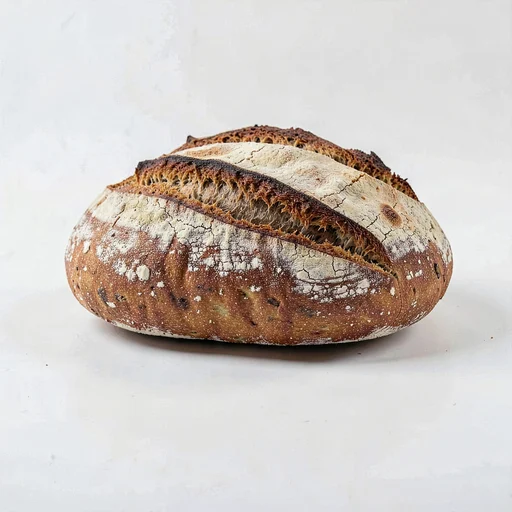
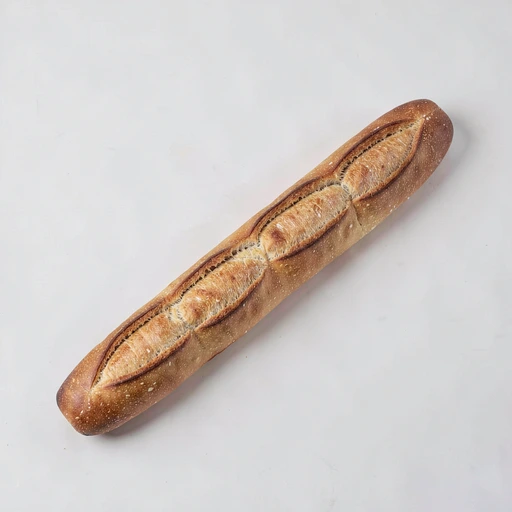
fix: replace termo/dedal/factura and reshoot pan in día 23
User feedback: termo, dedal, and factura should be swapped for other
objects, and pan should look more like an actual loaf (baguette-style)
instead of the generic round bread it was.

- factura -> cuchara (spoon): plain steel spoon reads unambiguously,
  vs. a single pastry photo defaulting to "medialuna" just as easily
  as "factura".
- termo -> perro (dog): fully unambiguous, and avoids termo's risk of
  reading as a generic "botella".
- dedal -> dado (die): a small silver thimble is easy to mistake for
  a tiny cup at a glance; a six-sided die with visible pips has no
  competing reading. (dedal had already been reshot once this session
  and was still flagged, so swapping the object entirely instead of
  trying a third illustration.)
- pan: same word, regenerated as a scored baguette loaf instead of a
  round boule, per the user's explicit ask for something "más
  representativo".

Same risk as the bombilla/libro swap: this game derives every answer
letter-by-letter from the object's exact name, so replacing an object
can silently change puzzle answers. Worked out replacement rules for
all 13 affected puzzle-steps (6 factura, 3 termo, 4 dedal — some
puzzles use two of these three at once) so every target word stays
exactly the same, verified with a standalone script before touching
the component. Confirmed live afterward: played through rounds using
each new object and the completion recap matched exactly — "A = última
[…]

diff --git a/src/pages/desafio/games/UnaLetraDeCadaUno.tsx b/src/pages/desafio/games/UnaLetraDeCadaUno.tsx
@@ -50,8 +50,8 @@ const OBJETOS = {
   bicicleta: 'BICICLETA',
   bufanda: 'BUFANDA',
   cuaderno: 'CUADERNO',
-  dedal: 'DEDAL',
-  factura: 'FACTURA',
+  cuchara: 'CUCHARA',
+  dado: 'DADO',
   flamenco: 'FLAMENCO',
   galleta: 'GALLETA',
   guitarra: 'GUITARRA',
@@ -63,8 +63,8 @@ const OBJETOS = {
   paraguas: 'PARAGUAS',
   pato: 'PATO',
   pelota: 'PELOTA',
+  perro: 'PERRO',
   rana: 'RANA',
-  termo: 'TERMO',
   tijera: 'TIJERA',
   tortuga: 'TORTUGA',
   vaso: 'VASO',
@@ -155,11 +155,11 @@ const LEVELS: Level[] = [
     name: 'Nivel 1',
     hint: 'Acá solo hay que mirar la primera o la última letra de cada palabra.',
     puzzles: [
-      [{ obj: 'mariposa', regla: 'primera' }, { obj: 'mate', regla: 'ultima' }, { obj: 'paraguas', regla: 'ultima' }, { obj: 'factura', regla: 'ultima' }], // MESA
+      [{ obj: 'mariposa', regla: 'primera' }, { obj: 'mate', regla: 'ultima' }, { obj: 'paraguas', regla: 'ultima' }, { obj: 'cuchara', regla: 'ultima' }], // MESA
       [{ obj: 'paraguas', regla: 'ultima' }, { obj: 'vaso', regla: 'ultima' }, { obj: 'pato', regla: 'primera' }, { obj: 'bufanda', regla: 'ultima' }], // SOPA
       [{ obj: 'mariposa', regla: 'primera' }, { obj: 'pelota', regla: 'ultima' }, { obj: 'pan', regla: 'ultima' }, { obj: 'cuaderno', regla: 'ultima' }], // MANO
       [{ obj: 'rana', regla: 'primera' }, { obj: 'pelota', regla: 'ultima' }, { obj: 'mariposa', regla: 'primera' }, { obj: 'cuaderno', regla: 'ultima' }], // RAMO
-      [{ obj: 'pan', regla: 'primera' }, { obj: 'mate', regla: 'ultima' }, { obj: 'rana', regla: 'primera' }, { obj: 'factura', regla: 'ultima' }], // PERA
+      [{ obj: 'pan', regla: 'primera' }, { obj: 'mate', regla: 'ultima' }, { obj: 'rana', regla: 'primera' }, { obj: 'cuchara', regla: 'ultima' }], // PERA
     ],
   },
   {
@@ -168,10 +168,10 @@ const LEVELS: Level[] = [
     hint: 'Ahora también hay que contar letras, y aparecen las vocales.',
     puzzles: [
       [{ obj: 'paraguas', regla: 'primera' }, { obj: 'flamenco', regla: 'segunda' }, { obj: 'rana', regla: 'primeraVocal' }, { obj: 'mate', regla: 'tercera' }, { obj: 'cuaderno', regla: 'ultima' }], // PLATO
-      [{ obj: 'factura', regla: 'tercera' }, { obj: 'mariposa', regla: 'segunda' }, { obj: 'rana', regla: 'primera' }, { obj: 'mate', regla: 'tercera' }, { obj: 'maceta', regla: 'ultima' }], // CARTA
+      [{ obj: 'cuchara', regla: 'tercera' }, { obj: 'mariposa', regla: 'segunda' }, { obj: 'rana', regla: 'primera' }, { obj: 'mate', regla: 'tercera' }, { obj: 'maceta', regla: 'ultima' }], // CARTA
       [{ obj: 'pan', regla: 'tercera' }, { obj: 'bicicleta', regla: 'segunda' }, { obj: 'pelota', regla: 'primeraVocal' }, { obj: 'tijera', regla: 'primera' }, { obj: 'ladrillo', regla: 'ultima' }], // NIETO
-      [{ obj: 'vaso', regla: 'primera' }, { obj: 'termo', regla: 'primeraVocal' }, { obj: 'tortuga', regla: 'tercera' }, { obj: 'dedal', regla: 'primera' }, { obj: 'pelota', regla: 'segunda' }], // VERDE
-      [{ obj: 'tortuga', regla: 'primera' }, { obj: 'zanahoria', regla: 'ultima' }, { obj: 'termo', regla: 'tercera' }, { obj: 'dedal', regla: 'primera' }, { obj: 'vela', regla: 'segunda' }], // TARDE
+      [{ obj: 'vaso', regla: 'primera' }, { obj: 'perro', regla: 'primeraVocal' }, { obj: 'tortuga', regla: 'tercera' }, { obj: 'dado', regla: 'primera' }, { obj: 'pelota', regla: 'segunda' }], // VERDE
+      [{ obj: 'tortuga', regla: 'primera' }, { obj: 'zanahoria', regla: 'ultima' }, { obj: 'perro', regla: 'tercera' }, { obj: 'dado', regla: 'primera' }, { obj: 'vela', regla: 'segunda' }], // TARDE
       [{ obj: 'vaso', regla: 'tercera' }, { obj: 'bicicleta', regla: 'primeraVocal' }, { obj: 'flamenco', regla: 'segunda' }, { obj: 'ladrillo', regla: 'primera' }, { obj: 'galleta', regla: 'ultima' }], // SILLA
     ],
   },
@@ -182,13 +182,13 @@ const LEVELS: Level[] = [
     puzzles: [
       [{ obj: 'vela', regla: 'primera' }, { obj: 'tijera', regla: 'cuarta' }, { obj: 'mariposa', regla: 'tercera' }, { obj: 'zanahoria', regla: 'vocalRepetida' }, { obj: 'banana', regla: 'consonanteRepetida' }, { obj: 'tortuga', regla: 'segunda' }], // VERANO
       [{ obj: 'tijera', regla: 'tercera' }, { obj: 'rana', regla: 'segundaVocal' }, { obj: 'guitarra', regla: 'consonanteRepetida' }, { obj: 'cuaderno', regla: 'cuarta' }, { obj: 'ladrillo', regla: 'segundaVocal' }, { obj: 'pan', regla: 'ultima' }], // JARDIN
-      [{ obj: 'flamenco', regla: 'cuarta' }, { obj: 'galleta', regla: 'ultima' }, { obj: 'rana', regla: 'tercera' }, { obj: 'tortuga', regla: 'consonanteRepetida' }, { obj: 'termo', regla: 'segunda' }, { obj: 'ladrillo', regla: 'primera' }], // MANTEL
+      [{ obj: 'flamenco', regla: 'cuarta' }, { obj: 'galleta', regla: 'ultima' }, { obj: 'rana', regla: 'tercera' }, { obj: 'tortuga', regla: 'consonanteRepetida' }, { obj: 'perro', regla: 'segunda' }, { obj: 'ladrillo', regla: 'primera' }], // MANTEL
       [{ obj: 'paraguas', regla: 'ultima' }, { obj: 'bicicleta', regla: 'vocalRepetida' }, { obj: 'galleta', regla: 'tercera' }, { obj: 'ladrillo', regla: 'primera' }, { obj: 'tortuga', regla: 'segunda' }, { obj: 'banana', regla: 'consonanteRepetida' }], // SILLON
-      [{ obj: 'bicicleta', regla: 'consonanteRepetida' }, { obj: 'guitarra', regla: 'tercera' }, { obj: 'factura', regla: 'segundaVocal' }, { obj: 'dedal', regla: 'primera' }, { obj: 'galleta', regla: 'vocalRepetida' }, { obj: 'cuaderno', regla: 'cuarta' }], // CIUDAD
-      [{ obj: 'factura', regla: 'tercera' }, { obj: 'rana', regla: 'vocalRepetida' }, { obj: 'maceta', regla: 'primera' }, { obj: 'mariposa', regla: 'cuarta' }, { obj: 'banana', regla: 'consonanteRepetida' }, { obj: 'cuaderno', regla: 'ultima' }], // CAMINO
+      [{ obj: 'bicicleta', regla: 'consonanteRepetida' }, { obj: 'guitarra', regla: 'tercera' }, { obj: 'cuchara', regla: 'segunda' }, { obj: 'dado', regla: 'primera' }, { obj: 'galleta', regla: 'vocalRepetida' }, { obj: 'cuaderno', regla: 'cuarta' }], // CIUDAD
+      [{ obj: 'cuchara', regla: 'tercera' }, { obj: 'rana', regla: 'vocalRepetida' }, { obj: 'maceta', regla: 'primera' }, { obj: 'mariposa', regla: 'cuarta' }, { obj: 'banana', regla: 'consonanteRepetida' }, { obj: 'cuaderno', regla: 'ultima' }], // CAMINO
       [{ obj: 'flamenco', regla: 'segundaVocal' }, { obj: 'vaso', regla: 'tercera' }, { obj: 'bicicleta', regla: 'consonanteRepetida' }, { obj: 'pelota', regla: 'cuarta' }, { obj: 'bufanda', regla: 'primera' }, { obj: 'maceta', regla: 'ultima' }], // ESCOBA
-      [{ obj: 'maceta', regla: 'primera' }, { obj: 'mariposa', regla: 'vocalRepetida' }, { obj: 'dedal', regla: 'tercera' }, { obj: 'mate', regla: 'segundaVocal' }, { obj: 'ladrillo', regla: 'cuarta' }, { obj: 'galleta', regla: 'segunda' }], // MADERA
-      [{ obj: 'rana', regla: 'cuarta' }, { obj: 'bufanda', regla: 'primera' }, { obj: 'cuaderno', regla: 'segunda' }, { obj: 'galleta', regla: 'segundaVocal' }, { obj: 'vela', regla: 'tercera' }, { obj: 'factura', regla: 'vocalRepetida' }], // ABUELA
+      [{ obj: 'maceta', regla: 'primera' }, { obj: 'mariposa', regla: 'vocalRepetida' }, { obj: 'dado', regla: 'tercera' }, { obj: 'mate', regla: 'segundaVocal' }, { obj: 'ladrillo', regla: 'cuarta' }, { obj: 'galleta', regla: 'segunda' }], // MADERA
+      [{ obj: 'rana', regla: 'cuarta' }, { obj: 'bufanda', regla: 'primera' }, { obj: 'cuaderno', regla: 'segunda' }, { obj: 'galleta', regla: 'segundaVocal' }, { obj: 'vela', regla: 'tercera' }, { obj: 'cuchara', regla: 'vocalRepetida' }], // ABUELA
     ],
   },
 ]
